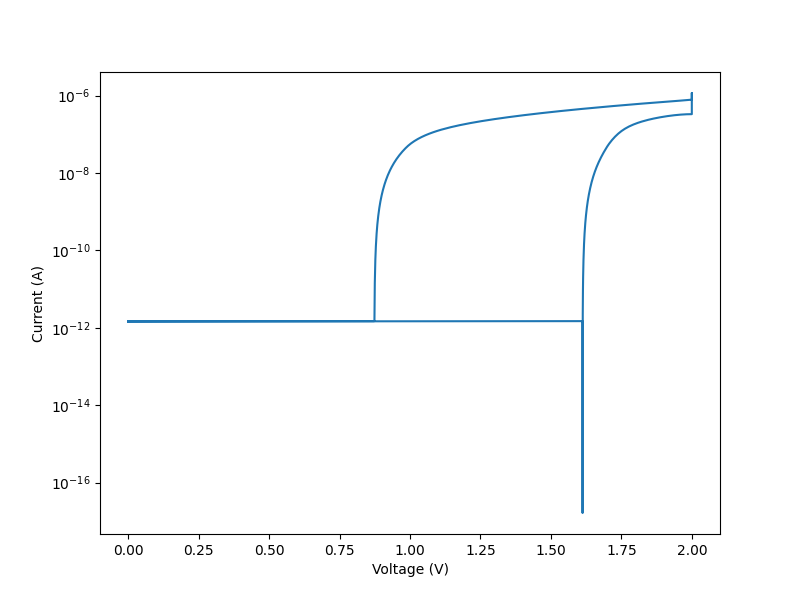
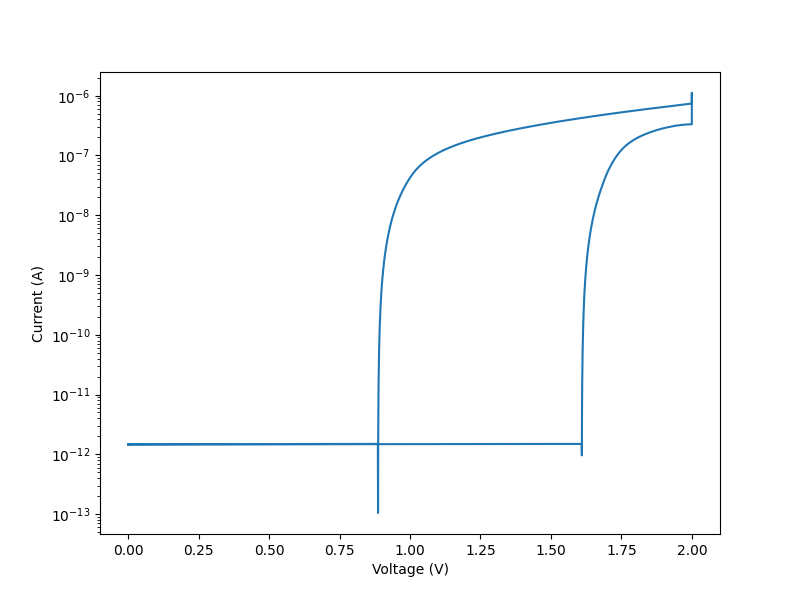
created waveform generator, interesting and good! results in plots/test

diff --git a/waveforms.py b/waveforms.py
@@ -1,0 +1,62 @@
+import numpy as np
+import matplotlib.pyplot as plt 
+
+class waveformGenerator():
+    def __init__(self) -> None:
+        pass
+
+    def pulses_constantVd(self, steps, Vd, Vw, tw, Vr, tr, td, Vh = 0, t_rise = 100e-9):
+        steps = int(steps)
+        drain = np.ones(steps) * Vd
+        t_total = 10 * t_rise + 6 * td + 2 * tw + 3 * tr
+        gate = np.zeros(steps)
+        dt = t_total / steps
+        tprev, tnext = 0, 0 + td
+        gate[int(tprev//dt): int(tnext//dt)] = np.ones(int(tnext//dt - tprev//dt)) * Vh
+        tprev, tnext = tnext, tnext + t_rise
+        gate[int(tprev//dt): int(tnext//dt)] = np.linspace(Vh, -Vw, int(tnext//dt - tprev//dt))
+        tprev, tnext = tnext, tnext + tw
+        gate[int(tprev//dt): int(tnext//dt)] = np.ones(int(tnext//dt - tprev//dt)) * -Vw
+        tprev, tnext = tnext, tnext + t_rise
+        gate[int(tprev//dt): int(tnext//dt)] = np.linspace(-Vw, Vh, int(tnext//dt - tprev//dt))
+        tprev, tnext = tnext, tnext + td
+        gate[int(tprev//dt): int(tnext//dt)] = np.ones(int(tnext//dt - tprev//dt)) * Vh
+        tprev, tnext = tnext, tnext + t_rise
+        gate[int(tprev//dt): int(tnext//dt)] = np.linspace(Vh, Vr, int(tnext//dt - tprev//dt))
+        tprev, tnext = tnext, tnext + tr
+        gate[int(tprev//dt): int(tnext//dt)] = np.ones(int(tnext//dt - tprev//dt)) * Vr
+        tprev, tnext = tnext, tnext + t_rise
+        gate[int(tprev//dt): int(tnext//dt)] = np.linspace(Vr, Vh, int(tnext//dt - tprev//dt))
+        tprev, tnext = tnext, tnext + td
+        gate[int(tprev//dt): int(tnext//dt)] = np.ones(int(tnext//dt - tprev//dt)) * Vh
+        tprev, tnext = tnext, tnext + t_rise
+        gate[int(tprev//dt): int(tnext//dt)] = np.linspace(Vh, -Vw, int(tnext//dt - tprev//dt))
+        tprev, tnext = tnext, tnext + tr
+        gate[int(tprev//dt): int(tnext//dt)] = np.ones(int(tnext//dt - tprev//dt)) * -Vw
+        tprev, tnext = tnext, tnext + t_rise
+        gate[int(tprev//dt): int(tnext//dt)] = np.linspace(-Vw, Vh, int(tnext//dt - tprev//dt))
+        tprev, tnext = tnext, tnext + td
+        gate[int(tprev//dt): int(tnext//dt)] = np.ones(int(tnext//dt - tprev//dt)) * Vh
+        tprev, tnext = tnext, tnext + tw
+        gate[int(tprev//dt): int(tnext//dt)] = np.ones(int(tnext//dt - tprev//dt)) * Vw
+        tprev, tnext = tnext, tnext + t_rise
+        gate[int(tprev//dt): int(tnext//dt)] = np.linspace(Vw, Vh, int(tnext//dt - tprev//dt))
+        tprev, tnext = tnext, tnext + td
+        gate[int(tprev//dt): int(tnext//dt)] = np.ones(int(tnext//dt - tprev//dt)) * Vh
+        tprev, tnext = tnext, tnext + t_rise
+        gate[int(tprev//dt): int(tnext//dt)] = np.linspace(Vh, Vr, int(tnext//dt - tprev//dt))
+        tprev, tnext = tnext, tnext + tr
+        gate[int(tprev//dt): int(tnext//dt)] = np.ones(int(tnext//dt - tprev//dt)) * Vr
+        tprev, tnext = tnext, tnext + t_rise
+        gate[int(tprev//dt): int(tnext//dt)] = np.linspace(Vr, Vh, int(tnext//dt - tprev//dt))
+        tprev, tnext = tnext, tnext + td
+        gate[int(tprev//dt): int(tnext//dt)] = np.ones(int(tnext//dt - tprev//dt)) * Vh
+
+        return gate, drain, t_total
+
+# gen = waveformGenerator()
+# g, d, t = gen.pulses_constantVd(1e5, 0.05, 2.5, 1e-6, 2, 3e-6, 2e-6)
+# t = np.linspace(0, t, int(1e5))
+# plt.plot(t, g)
+# plt.plot(t, d)
+# plt.show()

diff --git a/Dynamic_Memory_Modeling.py b/Dynamic_Memory_Modeling.py
@@ -3,8 +3,10 @@
 import numpy as np 
 import matplotlib.pyplot as plt 
 import scipy
+import scipy.signal
+from waveforms import waveformGenerator
 
-path = "./plots/ferroelectric_leakage/20Acm^-2/"
+path = "./plots/test/"
 
 e_charge = scipy.constants.e    #C
 k_B = scipy.constants.k  # J/K
@@ -75,8 +77,7 @@ P_r = 2.5 * 1e-2 # remanent polarization C/m^2
 E_c = 0.9 * 1e6 / 1e-2    # coercive field V/m
 
 def FE_leak(V):
-    #i_FE0 = 1.8e3 # MFM leakage current density at VF = 0V in A/m2
-    i_FE0 = 20e3
+    i_FE0 = 1.8e3 # MFM leakage current density at VF = 0V in A/m2
     V_FE0 = 0.5 # MFM leakage normalization voltage in V
     return  i_FE0* np.sign(V) * np.exp(np.abs(V)/ V_FE0 ) 
 
@@ -93,6 +94,7 @@ def func_V_Q(Q):
     return 2*alpha*Q + 4*beta*Q**3
 
 Sim_steps = 100000
+gen = waveformGenerator()
 t_rise = 0.1
 t_write = 1 
 t_delay = 1
@@ -105,9 +107,10 @@ Waveform_voltage = np.array([0, 0, V_write, V_write, V_hold, V_hold])
 dt = max(Waveform_time) / Sim_steps
 Sim_time = np.linspace(0, max(Waveform_time), Sim_steps)
 V_input = np.interp(x = Sim_time, xp = Waveform_time, fp= Waveform_voltage)
+V_input = gen.pulses_constantVd(1e5, 0.05, 2.5, 1e-6, 2, 3e-6, 2e-6)[0]
 plt.figure()
-plt.plot(Waveform_time, Waveform_voltage, label = 'V_GS')
-# plt.plot(Sim_time, V_input, '^', label = 'V_GS')
+#plt.plot(Waveform_time, Waveform_voltage, label = 'V_GS')
+plt.plot(Sim_time, V_input, label = 'V_GS')
 plt.plot(Waveform_time, V_DS*np.ones(Waveform_voltage.shape), label = 'V_DS')
 plt.legend()
 plt.savefig(path+"Vgs+Vds")
@@ -151,6 +154,12 @@ for i in range(1, Sim_steps):
     V_GS[i] = np.interp(x = Q_MOS[i]/A_MOS, xp = Q_MOS_list, fp= V_MOS_list)
     V_FE[i] = V_input[i] - V_GS[i]  
 #MOSFET Drain Current Calculation
+# plt.figure()
+# #plt.plot(scipy.signal.stft(I_Leak)[2], color = "red")
+# #plt.plot(scipy.signal.stft(I - I_Gate_leak)[2], color = "blue")
+# plt.plot(scipy.signal.stft(I - I_Leak)[2], color = "green")
+# plt.show()
+# plt.close()
 I_D = np.array(Drain_current(V_GS,V_DS*np.ones(V_GS.shape)))
 
 #Plots
@@ -176,7 +185,7 @@ ax1.legend(loc=4)
 ax1.set_ylabel('Voltage(V)')
 ax1.set_xlabel('Time(s)')
 ax2 = ax1.twinx() # this is the important function
-ax2.plot(Sim_time, I_D,'-r',label="I_D")
+ax2.plot(Sim_time, np.abs(I_D),'-r',label="I_D")
 ax2.legend(loc=3)
 # ax2.set_xlim([0, np.e])
 ax2.set_ylabel('Current(A)')
